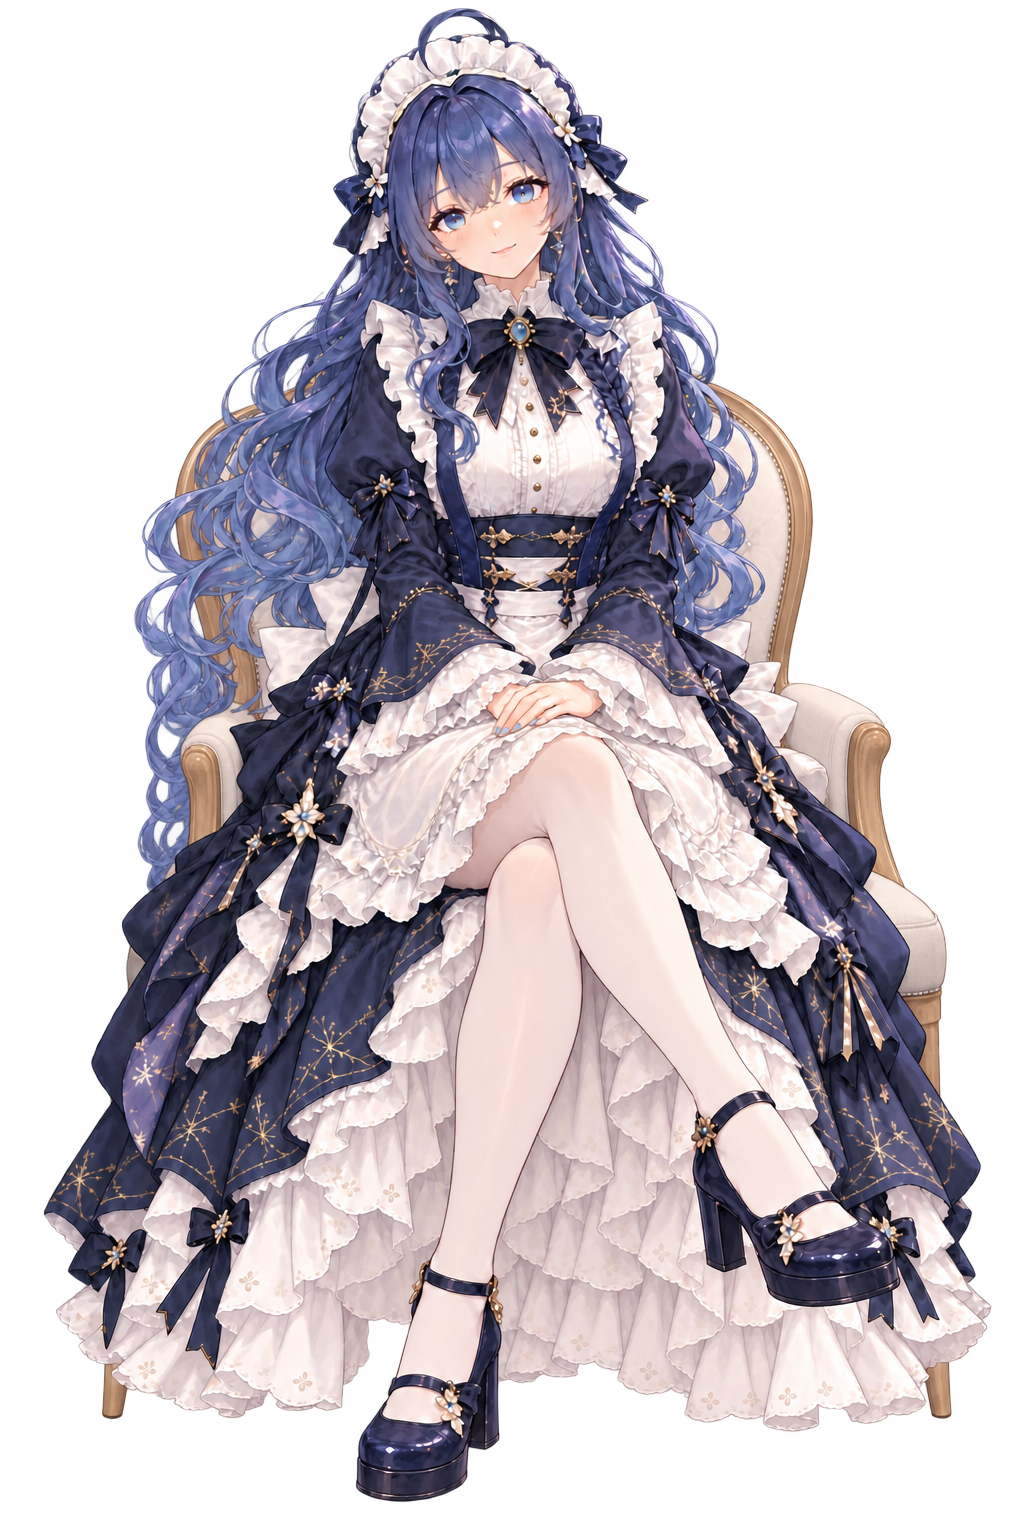
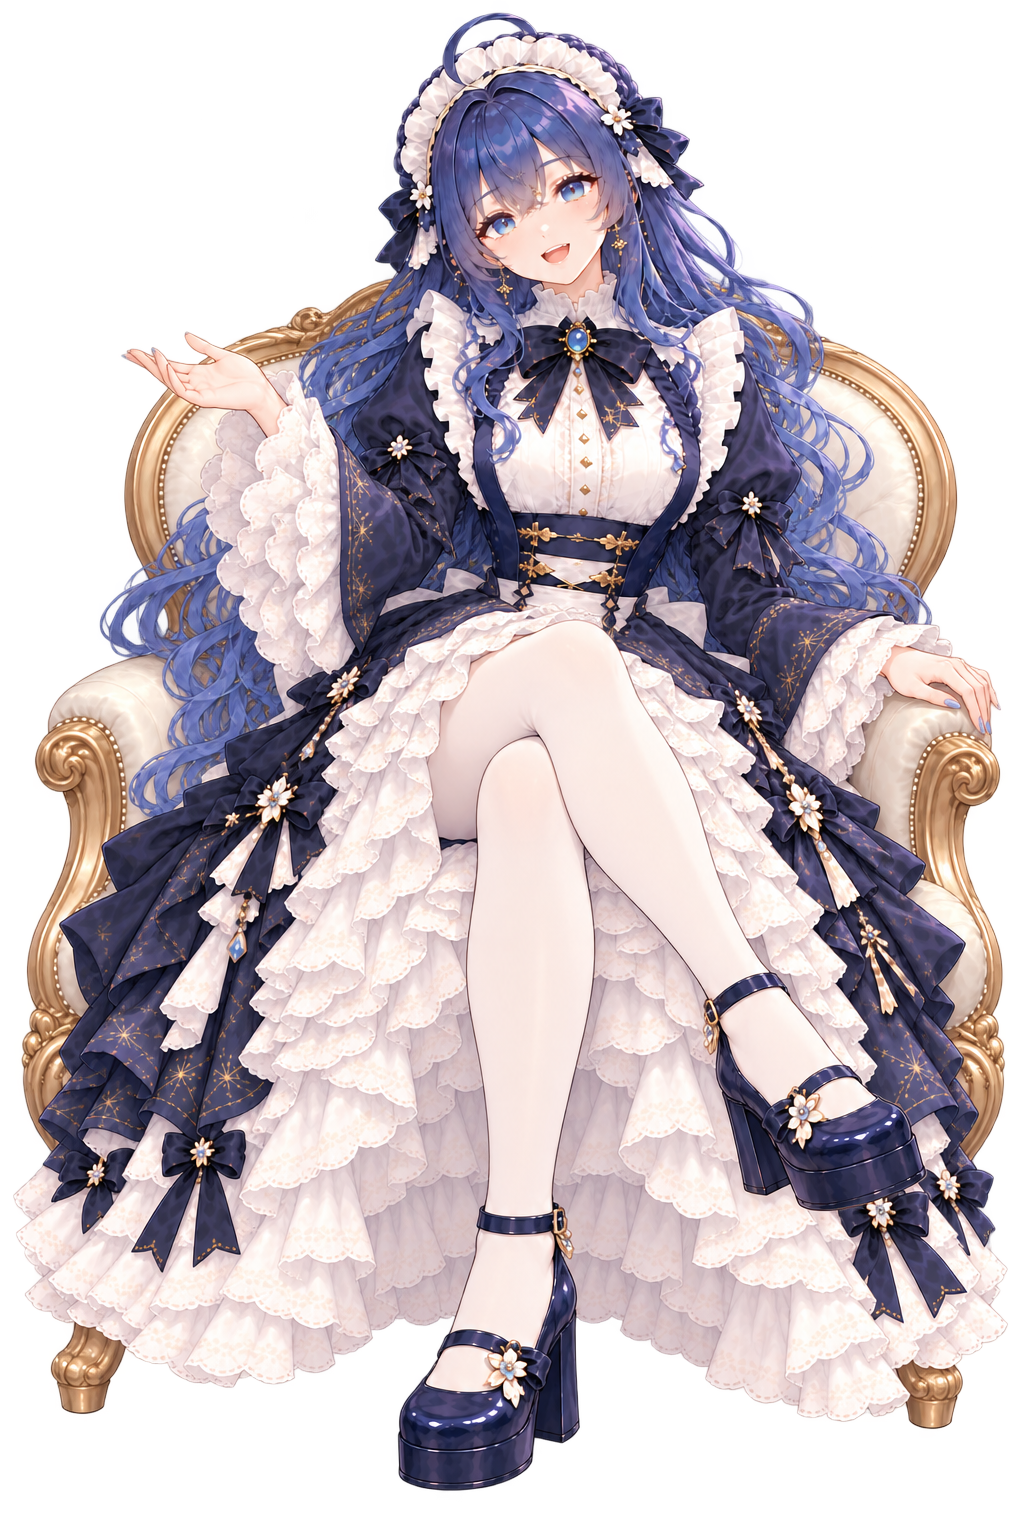
feat(frontend): 更新DeepSeek透明坐姿资源

diff --git a/docs/design/02-五位角色素材生成记录.md b/docs/design/02-五位角色素材生成记录.md
@@ -78,3 +78,24 @@ T-091当时选定候选为output/character-design/t091-deepseek-card/deepseek-ca
 实际alpha范围0—254，完全透明像素516260，alpha≥250的近不透明像素1004616；四角均为0，最外圈最大alpha为1。不是白底或画出的棋盘格；近不透明主体并非全部255，不把alpha参数当验收结论。目视单人单椅、自然叠手、膝盖并拢、脚踝不交叉和完整鞋履，裙摆边缘余量较紧，局部刺绣／椅子仍可能漂移。
 
 浏览器拒绝file协议预览，未绕过；深浅底浏览器目视对照未完成。当前只交自然陪伴候选，未覆盖frontend现用坐姿或生成另四张。
+
+## 29 T-095 四种透明坐姿候选（2026-10-25）
+
+使用T-094自然图锁定身份、当前正式卡补充服饰；内置imagegen逐张调用，共4次。四张均为1024×1536 RGBA、alpha范围0—254，四角全透明。主体近不透明而非全部255；没有通过抠图或调色后处理。
+
+| 动作 | 文件 | 完全透明像素 | alpha≥250像素 | 最外圈最大alpha |
+|---|---|---|---|---|
+| listening | deepseek-listening.png | 487319 | 1039104 | 5 |
+| casual | deepseek-casual.png | 497975 | 1022986 | 1 |
+| playful | deepseek-playful.png | 474926 | 1045424 | 21 |
+| thinking | deepseek-thinking.png | 443177 | 1051317 | 3 |
+
+全部文件位于output/character-design/t095-seated-poses，manifest.json记录SHA-256、原始生成路径与透明检查，逐张prompt.txt及prepared.json记录执行输入。认真倾听为前倾双手放膝；轻松闲聊为交叠腿、抬掌解释和开口微笑；俏皮回应为侧斜双腿与抬食指；托腮思考为右肘靠扶手、侧倚托脸。
+
+目视完整单人单椅及可辨双鞋，衣饰整体延续。发丝／裙边安全余量仍较小，俏皮图主体上缘约2像素，尚未进行深浅底浏览器对照；手指、刺绣和椅雕等细节留待用户评审，不宣称像素或3D一致性。候选未替换frontend现用坐姿。
+
+## 30 T-096 正式舞台资源采用（2026-10-25）
+
+用户明确仅改资源。frontend/public/characters/stage内deepseek-natural.png采用T-094自然陪伴；deepseek-crossed.png采用T-095轻松闲聊；deepseek-leaning.png采用T-095俏皮回应；新增deepseek-listening.png和deepseek-thinking.png备用，不增加页面入口。其他人物、白底母版及设定卡保持。
+
+五图与源图字节一致，1024×1536 RGBA、alpha范围0—254，哈希沿用第28／29节。实际浏览器目视三姿态切换及侧斜深浅底透明正常。正式映射、哈希及截图位于output/character-design/t096-resource-update。

diff --git a/HANDOVER.md b/HANDOVER.md
@@ -581,3 +581,15 @@ DeepSeek最新白底母版未覆盖，单独提取Git基线透明图到character
 
 
 2026-10-25用户授权先提交main并推送。提交前Ruff、格式、mypy与39项pytest复验通过。当前本地output目录缺失，已从Codex原始生成文件按既有SHA-256恢复T-094自然坐姿和正式卡参考；旧output中的提示词／任务快照／清单本次未恢复，上文为当时交付记录。待提交范围包含T-091—094设定卡、五坐姿Skill与对应文档；后续四图另行执行。
+
+## 73 T-095 其余四张坐姿候选（2026-10-25）
+
+按用户顺序先提交并推送f052ba4至origin/main，推送后本地／远端差异0／0且工作区干净；提交包括坐姿Skill、设定卡和T-091—094文档，39项后端测试与静态检查通过。随后以恢复的T-094自然图和T-093正式卡为参考，调用内置imagegen四次，生成listening、casual、playful、thinking各一张1024×1536 RGBA候选。
+
+文件、逐张实际提示词、prepare快照和manifest.json在output/character-design/t095-seated-poses。alpha数值与原图目视已检查；四角透明，主体近不透明，画面余量偏紧，未完成深浅底浏览器对照。未覆盖现用舞台图或接入后端生图，候选待用户评审。本次生成后的文档留在工作区，未追加提交。详见素材记录02第29节、计划09第16节TC-095。
+
+## 74 T-096 仅更新前端图片资源（2026-10-25）
+
+用户限定先改资源、不改页面；页面改动已撤回，frontend/src与HEAD无差异。旧natural／crossed／leaning路径分别采用natural／casual／playful新图，另增listening／thinking备用。五张均与源图字节一致，1024×1536 RGBA。恢复源码后生产构建通过，五资源HTTP 200且哈希一致，实际桌面确认原三姿态切换及深浅背景透明正常，控制台无error／warn。
+
+同项目3000生产预览已重启并刷新本机Next图片缓存；临时跳过浏览器缓存验收后已恢复。未重新验收手机、未增加备用两图入口、未改Figma或后端。用户授权提交main并推送资源及T-095／096记录；见计划09第17节。

diff --git a/docs/design/26-DeepSeek角色生成提示词.md b/docs/design/26-DeepSeek角色生成提示词.md
@@ -128,3 +128,9 @@ T-089候选已目视检查三站姿、脸部特写、白袜及无尾巴／抱枕
 当前任务用character-seated-poses、pose_id=natural准备，身份与座椅参考为T-093正式设定卡。实际由内置imagegen单次生成1024×1536 RGBA PNG，输出output/character-design/t094-natural/deepseek-natural.png；输入快照、完整提示词prompt.txt、prepared-task.json与alpha检查记录在同目录。未自动替换现用坐姿，其他四张尚未生成。
 
 提示词约束单人单椅、正面机位、自然叠手、并拢双膝、平行小腿与不交叉脚踝，保留已选卡面色调；不得复制卡片标题或特写拼版。透明背景由参数transparent_background=true指定，并实际读取PNG alpha验收，不能仅凭工具参数认定通过。
+
+## 10 T-095 四种独立坐姿
+
+用户授权继续其余四张。每次使用同一T-094自然基准和T-093正式卡，分别准备listening、casual、playful、thinking，调用内置imagegen一次，均transparent_background=true。实际提示词分别保存在output/character-design/t095-seated-poses的listening-prompt.txt、casual-prompt.txt、playful-prompt.txt、thinking-prompt.txt；同名前缀prepared.json保留Skill版本与动作定义。
+
+主约束为同一成年人物／服装／座椅、正面全身、单人单椅、无文字拼版／新增道具。动作分别为前倾双手放膝、交叠腿抬掌解释、侧斜双腿抬食指、右肘靠扶手托腮。此次任务快照按用户选定卡面修正袜色描述为米白，不执行旧预设额外漂白。当前为候选，局部细节和前端深浅背景效果仍需评审。
